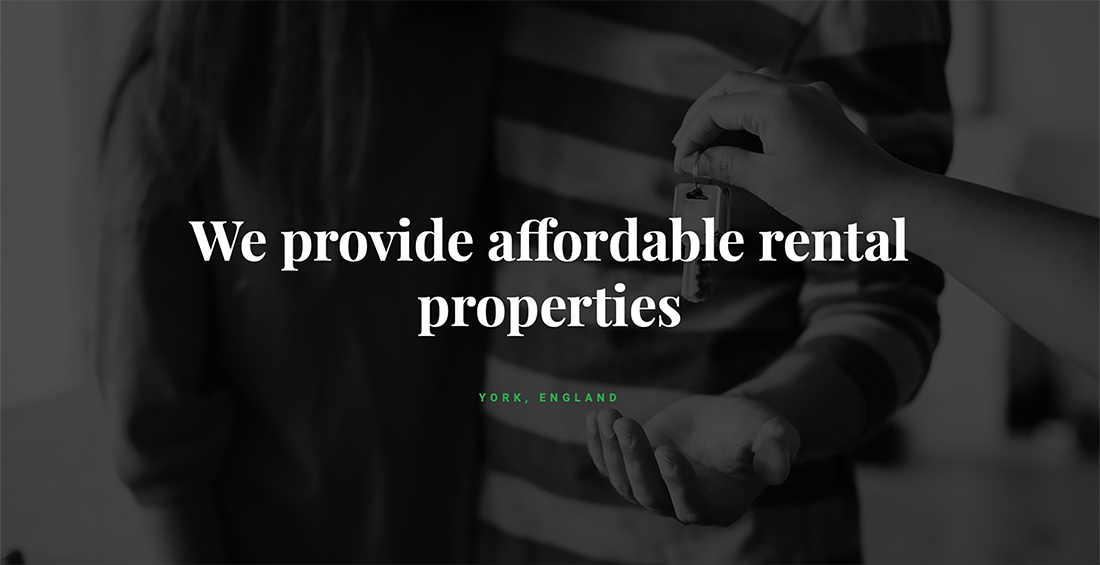
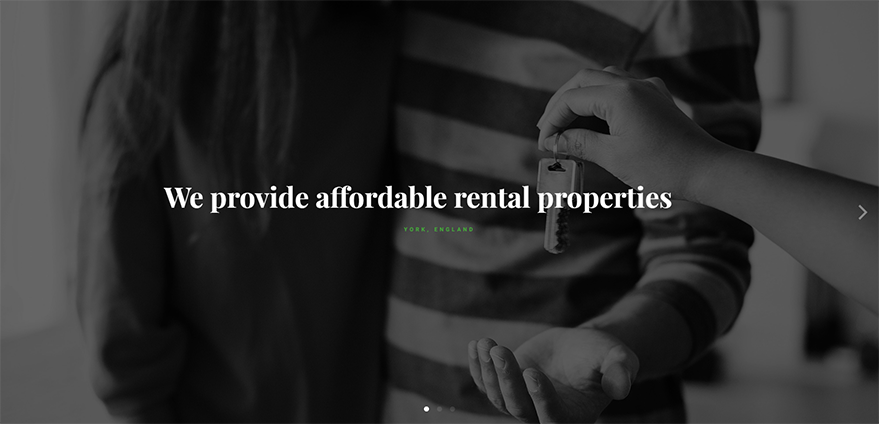
1

diff --git a/steven-green-property-letting.html b/steven-green-property-letting.html
@@ -93,7 +93,7 @@
 					<hr /></div></div></div><div class="container">
 						<div class="row align-items-center col-spacing-30">
 						<div class="col-12 col-lg-12">
-							<p>Steven initially approached me with the intention of removing some outdated text and images from his website, which remained untouched since its creation over a decade ago. I knew I could easily improve and update the aesthetic to a timeless modern design that reflected the character of his business.</p>
+							<p>Steven initially approached me with the intention of removing some outdated text and images from his website, which remained untouched since its creation in 2017. I knew I could easily improve and update the aesthetic to a timeless modern design that reflected the character of his business. He didn't want the burden of a high-maintenance website, but more of an informative landing page that gives generalised information about the company.</p>
 				</div>
 			</div></div>
 
@@ -133,7 +133,7 @@
 				<div style="padding-top: 30px;">
 				</div>
 				<p>
-					The website was very dated...</p>
+					The website was very dated and showed it's age in terms of design, content and compatability.</p>
 				</div>
 				</div></div>
 
@@ -164,7 +164,7 @@
 			</div>
 
 			<div class="col-12 col-lg-12">
-				<p>The existing logo was quite dated and hadn't been updated since it was drawn up in the 1970s. I felt that it was quite important to modernise this and create a timeless, professional and modern look.</p>
+				<p>The existing logo was quite dated and hadn't been updated since it was drawn up in the 1970s. I felt that it was quite important to modernise this to create a timeless, professional and modern look.</p>
 			</div></div></div>
 
 			<div style="padding-top: 30px;">
@@ -194,7 +194,7 @@
 			</div>
 
 			<div class="col-12 col-lg-12">
-				<p>The primary font was Playfair Display I experiemented with the font weight. The secondary font is an uppercase version of Roboto with an extended letter spacing.</p>
+				<p>The primary font is Playfair Display, I experiemented with the font weight to create a commanding presence. It is also attributed white, whereas secondary items are attributed with a dark green colour to create eye-catching contrast. The secondary font is an uppercase version of Roboto with an extended letter spacing.</p>
 </div></div></div>
 
 			<!-- divide -->
@@ -213,7 +213,7 @@
 			<div class="container">
 				<div class="row align-items-center col-spacing-30">
 				<div class="col-12 col-lg-12">
-					<p>Steven wanted the website to be informative, modern and low maintenance. It was important to consider who would be the audience of the website and what their intentions would be. The majority of the website users would be young adults looking to a rent a property in the York region - because of this it was important to optimise the design for mobile.</p>
+					<p>Steven wanted the website to be informative, modern and low maintenance. It was important to consider the audience of the website and what their intentions would be. The majority of the website users would be young to middle aged adults looking to a rent a property within the York region - because of this it was important to optimise the design for mobile.</p>
 </div>
 <div class="col-12 col-lg-6">
 								<a class="lightbox-image" href="images/sgpl/sgpl-concept-wireframe1@2x.png" data-image-title="Wireframe Development">
@@ -229,7 +229,7 @@
 
 <div class="col-12 col-lg-12">
 
-					<p>Due to the nature of the business, Steven didn't want to list specific/individual properties on the website, however wanted to give an example of select properties and a range of locations that accomdodation can be offered.</p>
+					<p>Due to the nature of the business, Steven didn't want to list specific/individual properties on the website, however wanted to give an example of a range of locations that accomdodation can be offered and some generalised company information. From sketching some designs, I decided on the idea of a carousel which would help to contain the information to one screen with distinct segments, whilst providing an engaging interactive user experience.</p>
 
 			</div></div></div>
 
@@ -249,13 +249,13 @@
 						<div class="row align-items-center col-spacing-30">
 						<div class="col-12 col-lg-12">
 
-<p>The website consists of a green header bar, primary information is located here such as the company logo and quick access contact information.</p>
+							<p>The header is formed of a solid green background and contains primary information such as the company logo and quick access contact information. To create an eye-catching contrast, the primary text of the company branding is attributed white, whereas all remaining items are attributed with a dark green colour.</p>
 
 							<a class="lightbox-image" href="images/sgpl/sgpl-header@2x.png" data-image-title="Website Header">
 							<img src="images/sgpl/sgpl-header@2x.png" alt="Website Header" style="padding-bottom: 30px; padding-top: 30px;">
 							</a>
 
-				<p>The website consists of a green header bar, primary information is located here such as the company logo and quick access contact information.</p>
+							<p>The carousel contains three main sections. The first is the tagline, an informative phrase paired with an image. The image depicts a couple being handed a set of keys, instantly informing the user of the type of business that can be expected on this domain. The accompanying text reads "We provide affordable rental properties" with subheading "York, England" which is clear in identifying the company's area of business, property rental.</p>
 
 										<a class="lightbox-image" href="images/sgpl/sgpl-tagline@2x.png" data-image-title="Website Tagline">
 										<img src="images/sgpl/sgpl-tagline@2x.png" alt="Website Tagline" style="padding-top: 30px;">
@@ -264,21 +264,48 @@
 										<div style="padding-top: 30px;">
 										</div>
 
-				<p>The next segment of the website is dedicated to giving a lot of information without doing much, a tagline paired with an image (which has been given a parallax effect). The image depicts a couple being handed a set of keys, instantly informing the user of the type of business that can be expected on this domain, property rental. The accompanying text reads "We provide affordable rental properties" with subheading "York, England" which is self explanitory.</p>
+										<p>The second section contains key information about the business, such as; available property types, access information, reputation, and service.</p>
 
-
-										<a class="lightbox-image" href="images/sgpl/sgpl-logo@2x.png" data-image-title="Proposed Branding Logo">
-										<img src="images/sgpl/sgpl-logo@2x.png" alt="Proposed Branding Logo" style="padding-top: 30px;">
+										<a class="lightbox-image" href="images/sgpl/sgpl-information@2x.png" data-image-title="Website Information">
+										<img src="images/sgpl/sgpl-information@2x.png" alt="Website Information" style="padding-top: 30px;">
 										</a>
 
 										<div style="padding-top: 30px;">
 										</div>
 
-				<p>After this comes the experience section, this short paragraph informs the user about the business, how long it has been operating.
-			</p>
+										<p>The third section shows a map customised in JavaScript, provided by <a href="https://www.mapbox.com/" target=_blank>Mapbox</a> and <a href="https://www.jawg.io/en/" target=_blank>Jawg.io</a>. The map does not show specific properties, however it does show a range of areas in which properties can be accomodated.</p>
+
+										<a class="lightbox-image" href="images/sgpl/sgpl-map@2x.png" data-image-title="Website Map">
+										<img src="images/sgpl/sgpl-map@2x.png" alt="Website Map" style="padding-top: 30px;">
+										</a>
+
+										<div style="padding-top: 30px;">
+										</div>
+
+						<p>The footer has a solid green background and contains primary contact and copyright information in dark green.</p>
+
+										<a class="lightbox-image" href="images/sgpl/sgpl-footer@2x.png" data-image-title="Website Footer">
+										<img src="images/sgpl/sgpl-footer@2x.png" alt="Website Footer" style="padding-top: 30px;">
+										</a>
+</div></div></div>
+						<div style="padding-top: 50px;">
+						</div>
 
 
-			<iframe style="padding-top: 30px;" src="http://www.stevengreenpropertyletting.com" height="650" width="auto"></iframe>
+																							<div class="container no-padding-bottom no-padding-top">
+																							<div class="row align-items-centre col-spacing-30">
+																								<div class="col-12 col-lg-12">
+
+																															<h5>Product</h5>
+																											</div></div></div>
+
+																											<div class="container">
+																												<div class="row align-items-center col-spacing-30">
+																												<div class="col-12 col-lg-12">
+
+<p style="padding-bottom: 30px;">The website is responsive to screensize and scales accordingly, this is to allow for a seamless experience between mobile and desktop browser.</p>
+
+			<iframe src="http://www.stevengreenpropertyletting.com" height="750" width="auto"></iframe>
 
 				</div>
 
